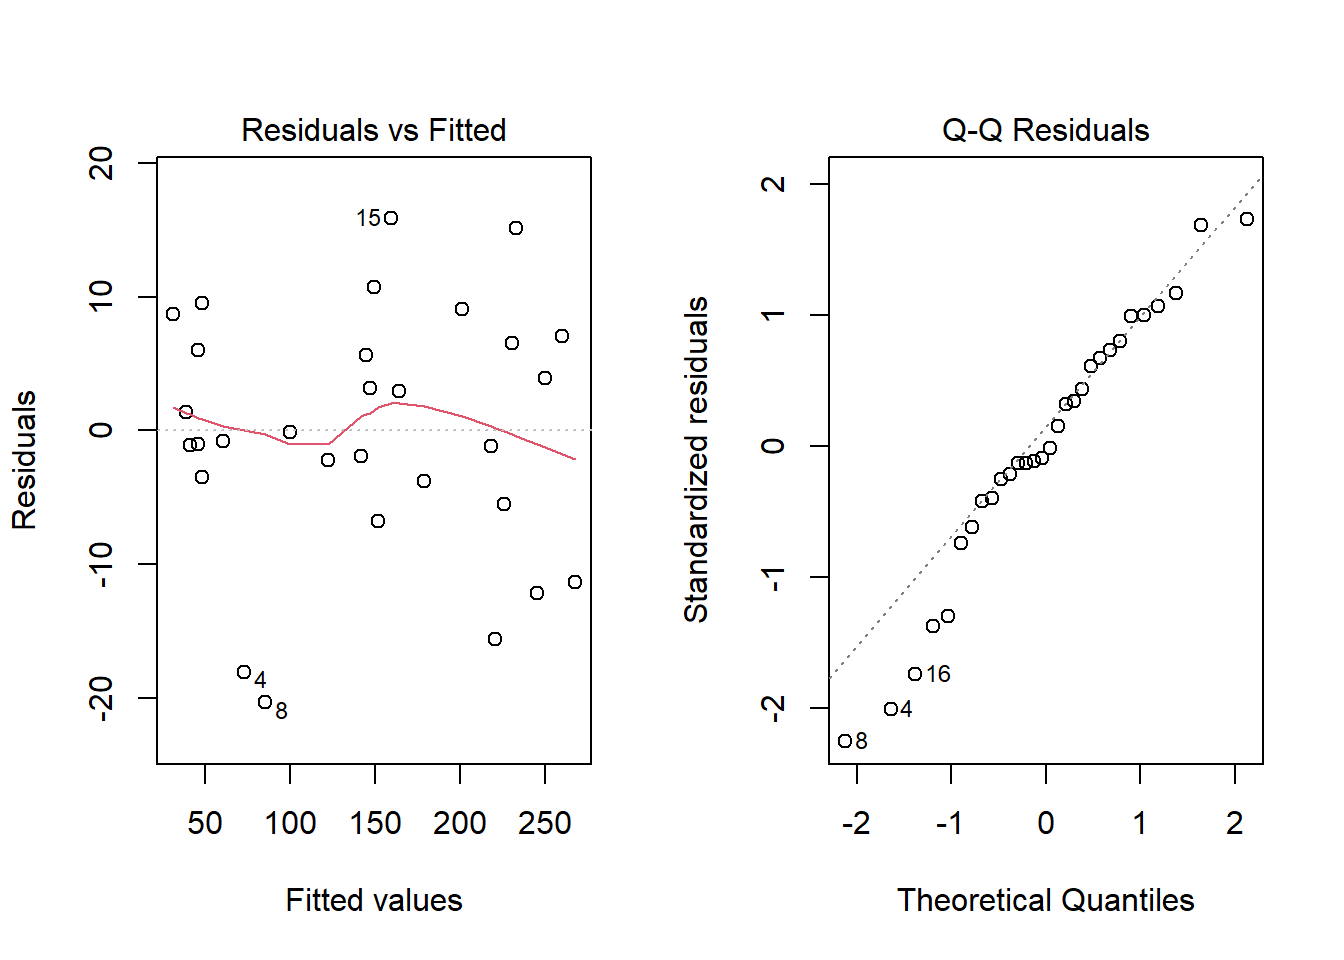
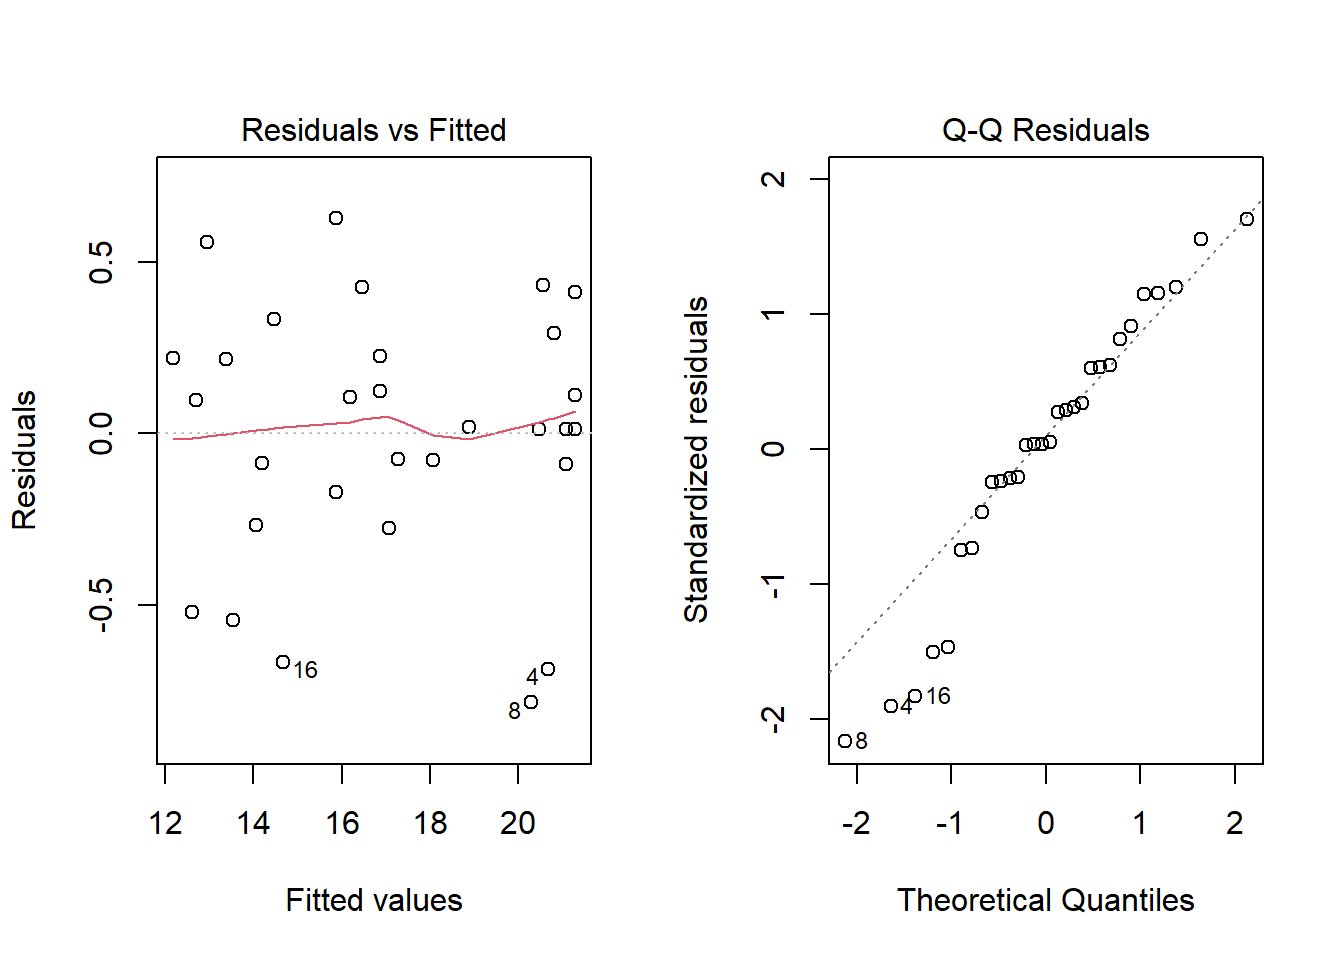
reg lineal

diff --git a/_book/regresion_simple.html b/_book/regresion_simple.html
@@ -433,18 +433,14 @@ pre > code.sourceCode > span > a:first-child::before { text-decoration: underlin
 6      6                      40      21.7</code></pre>
 </div>
 </div>
-<p><strong>Explicación</strong>:</p>
-<ol type="1">
-<li><p><strong><code>read_excel("esporofitos.xlsx")</code></strong>: Carga el archivo de Excel que contiene los datos sobre esporofitos.</p></li>
-<li><p><strong><code>head(datos)</code></strong>: Muestra las primeras filas del conjunto de datos para verificar que se haya importado correctamente.</p></li>
-</ol>
+<p>Este código carga el archivo de Excel que contiene los datos sobre esporofitos y muestra las primeras filas del conjunto de datos para verificar que se haya importado correctamente.</p>
 </section>
 <section id="visualización-de-datos" class="level3" data-number="14.5.3">
 <h3 data-number="14.5.3" class="anchored" data-anchor-id="visualización-de-datos"><span class="header-section-number">14.5.3</span> Visualización de Datos</h3>
 <p>Se elabora un gráfico de dispersión para observar la relación entre las variables.</p>
 <div class="cell">
 <div class="sourceCode cell-code" id="cb4"><pre class="sourceCode r code-with-copy"><code class="sourceCode r"><span id="cb4-1"><a href="#cb4-1" aria-hidden="true" tabindex="-1"></a><span class="co"># Elaboración de un gráfico de dispersión entre altura y cantidad</span></span>
-<span id="cb4-2"><a href="#cb4-2" aria-hidden="true" tabindex="-1"></a><span class="fu">plot</span>(datos<span class="sc">$</span>cantidad_de_esporofitos, datos<span class="sc">$</span>altura_mm)</span></code><button title="Copiar al portapapeles" class="code-copy-button"><i class="bi"></i></button></pre></div>
+<span id="cb4-2"><a href="#cb4-2" aria-hidden="true" tabindex="-1"></a><span class="fu">plot</span>( datos<span class="sc">$</span>altura_mm, datos<span class="sc">$</span>cantidad_de_esporofitos)</span></code><button title="Copiar al portapapeles" class="code-copy-button"><i class="bi"></i></button></pre></div>
 <div class="cell-output-display">
 <div>
 <figure class="figure">
@@ -453,38 +449,38 @@ pre > code.sourceCode > span > a:first-child::before { text-decoration: underlin
 </div>
 </div>
 </div>
-<p><strong>Explicación</strong>:</p>
-<p>Este gráfico permite visualizar la relación inversamente proporcional entre la cantidad de esporofitos y la altura en milímetros. Una relación lineal puede ser observada visualmente.</p>
+<p>Este gráfico permite visualizar la relación entre la cantidad de esporofitos y la altura en milímetros, facilitando la identificación de patrones. Como se puede apreciar en el gráfico anterior hay una relación inversamente proporcional entre la altura de los esporofitos y la cantidad de esporofitos.</p>
 </section>
 <section id="ajuste-del-modelo-de-regresión" class="level3" data-number="14.5.4">
 <h3 data-number="14.5.4" class="anchored" data-anchor-id="ajuste-del-modelo-de-regresión"><span class="header-section-number">14.5.4</span> Ajuste del Modelo de Regresión</h3>
 <p>Se ajusta el modelo de regresión lineal simple utilizando la función <code>lm()</code>.</p>
 <div class="cell">
 <div class="sourceCode cell-code" id="cb5"><pre class="sourceCode r code-with-copy"><code class="sourceCode r"><span id="cb5-1"><a href="#cb5-1" aria-hidden="true" tabindex="-1"></a><span class="co"># Ajuste del modelo</span></span>
-<span id="cb5-2"><a href="#cb5-2" aria-hidden="true" tabindex="-1"></a>regsimple <span class="ot">&lt;-</span> <span class="fu">lm</span>(datos<span class="sc">$</span>cantidad_de_esporofitos <span class="sc">~</span> datos<span class="sc">$</span>altura_mm)</span>
+<span id="cb5-2"><a href="#cb5-2" aria-hidden="true" tabindex="-1"></a>regsimple <span class="ot">&lt;-</span> <span class="fu">lm</span>(datos<span class="sc">$</span>altura_mm <span class="sc">~</span> datos <span class="sc">$</span>cantidad_de_esporofitos)</span>
 <span id="cb5-3"><a href="#cb5-3" aria-hidden="true" tabindex="-1"></a><span class="fu">summary</span>(regsimple)</span></code><button title="Copiar al portapapeles" class="code-copy-button"><i class="bi"></i></button></pre></div>
 <div class="cell-output cell-output-stdout">
 <pre><code>
 Call:
-lm(formula = datos$cantidad_de_esporofitos ~ datos$altura_mm)
+lm(formula = datos$altura_mm ~ datos$cantidad_de_esporofitos)
 
 Residuals:
      Min       1Q   Median       3Q      Max 
--20.3681  -3.7261  -0.4503   6.4108  15.8646 
+-0.78523 -0.15056  0.01664  0.22403  0.62850 
 
 Coefficients:
-                Estimate Std. Error t value Pr(&gt;|t|)    
-(Intercept)     564.8555     9.4053   60.06   &lt;2e-16 ***
-datos$altura_mm -24.5891     0.5409  -45.46   &lt;2e-16 ***
+                                Estimate Std. Error t value Pr(&gt;|t|)    
+(Intercept)                   22.8933399  0.1446248  158.29   &lt;2e-16 ***
+datos$cantidad_de_esporofitos -0.0401248  0.0008826  -45.46   &lt;2e-16 ***
 ---
 Signif. codes:  0 '***' 0.001 '**' 0.01 '*' 0.05 '.' 0.1 ' ' 1
 
-Residual standard error: 9.29 on 28 degrees of freedom
+Residual standard error: 0.3753 on 28 degrees of freedom
 Multiple R-squared:  0.9866,    Adjusted R-squared:  0.9862 
 F-statistic:  2067 on 1 and 28 DF,  p-value: &lt; 2.2e-16</code></pre>
 </div>
 </div>
-<p><strong>Explicación</strong>:</p>
+<p>El resumen del modelo ajustado proporciona información sobre los coeficientes, errores estándar y estadísticas de ajuste, permitiendo evaluar la calidad del modelo.</p>
+<p><strong>Explicación del código</strong>:</p>
 <ol type="1">
 <li><p><strong><code>lm()</code></strong>: Esta función ajusta un modelo de regresión lineal donde la cantidad de esporofitos es la variable dependiente y la altura es la variable independiente.</p></li>
 <li><p><strong><code>summary(regsimple)</code></strong>: Proporciona un resumen del modelo ajustado, incluyendo coeficientes, errores estándar y estadísticas de ajuste.</p></li>
@@ -506,11 +502,9 @@ F-statistic:  2067 on 1 and 28 DF,  p-value: &lt; 2.2e-16</code></pre>
 </div>
 <div class="sourceCode cell-code" id="cb8"><pre class="sourceCode r code-with-copy"><code class="sourceCode r"><span id="cb8-1"><a href="#cb8-1" aria-hidden="true" tabindex="-1"></a><span class="fu">par</span>(<span class="at">mfrow=</span><span class="fu">c</span>(<span class="dv">1</span>,<span class="dv">1</span>)) <span class="co"># Devuelve a su estado normal el área de gráficos</span></span></code><button title="Copiar al portapapeles" class="code-copy-button"><i class="bi"></i></button></pre></div>
 </div>
-<p><strong>Explicación</strong>:</p>
-<ol type="1">
-<li><p><strong><code>par(mfrow=c(1,2))</code></strong>: Configura el área de gráficos para mostrar dos gráficos en una fila.</p></li>
-<li><p><strong><code>plot(regsimple, which=1:2)</code></strong>: Genera los gráficos de residuos y ajuste, que ayudan a verificar la linealidad y la homocedasticidad.</p></li>
-</ol>
+<p>Estos gráficos ayudan a verificar la linealidad y la homocedasticidad, asegurando que los supuestos del modelo se cumplan.</p>
+<p><strong>Explicación del código</strong>:</p>
+<p><strong><code>plot(regsimple, which=1:2)</code></strong>: Genera los gráficos de residuos y ajuste, que ayudan a verificar la linealidad y la homocedasticidad.</p>
 </section>
 <section id="prueba-de-normalidad-de-los-residuos" class="level3" data-number="14.5.6">
 <h3 data-number="14.5.6" class="anchored" data-anchor-id="prueba-de-normalidad-de-los-residuos"><span class="header-section-number">14.5.6</span> Prueba de Normalidad de los Residuos</h3>
@@ -523,11 +517,11 @@ F-statistic:  2067 on 1 and 28 DF,  p-value: &lt; 2.2e-16</code></pre>
     Shapiro-Wilk normality test
 
 data:  residuals(regsimple)
-W = 0.96712, p-value = 0.4636</code></pre>
+W = 0.95651, p-value = 0.2516</code></pre>
 </div>
 </div>
 <p><strong>Explicación</strong>:</p>
-<p><strong><code>shapiro.test(residuals(regsimple))</code></strong>: Esta prueba evalúa si los residuos del modelo siguen una distribución normal. Un valor p bajo (generalmente &lt; 0.05) indica que los residuos no son normales.</p>
+<p><strong><code>shapiro.test(residuals(regsimple))</code></strong>: Esta prueba evalúa si los residuos del modelo siguen una distribución normal. Un valor p bajo ( &lt; 0.05) indica que los residuos no son normales. Para el ejemplo en cuestión el valor de p es de 0.2516 por lo que no se rechaza la hipótesis nula y por lo tanto no hay suficiente evidencia estadística para indica que los residuos no son norales.</p>
 </section>
 <section id="prueba-de-homocedasticidad-de-la-varianza" class="level3" data-number="14.5.7">
 <h3 data-number="14.5.7" class="anchored" data-anchor-id="prueba-de-homocedasticidad-de-la-varianza"><span class="header-section-number">14.5.7</span> Prueba de Homocedasticidad de la varianza</h3>
@@ -538,11 +532,11 @@ W = 0.96712, p-value = 0.4636</code></pre>
 <div class="cell-output cell-output-stdout">
 <pre><code>Non-constant Variance Score Test 
 Variance formula: ~ fitted.values 
-Chisquare = 0.2273293, Df = 1, p = 0.63351</code></pre>
+Chisquare = 0.07681442, Df = 1, p = 0.78166</code></pre>
 </div>
 </div>
 <p><strong>Explicación</strong>:</p>
-<p><strong><code>ncvTest(regsimple)</code></strong>: Esta función evalúa si la varianza de los residuos es constante a lo largo de los valores de la variable independiente. Un valor p bajo sugiere que hay heterocedasticidad, lo que puede invalidar el modelo.</p>
+<p><strong><code>ncvTest(regsimple)</code></strong>: Esta función evalúa si la varianza de los residuos es constante a lo largo de los valores de la variable independiente. Un valor p bajo (&lt;0.05) sugiere que hay heterocedasticidad, lo que puede invalidar el modelo. Para este ejemplo el valor de p es 0.78166 por lo que no hay evidencia estadística suficiente para indicar que la varianza de los residuos no es contante.</p>
 
 
 </section>
